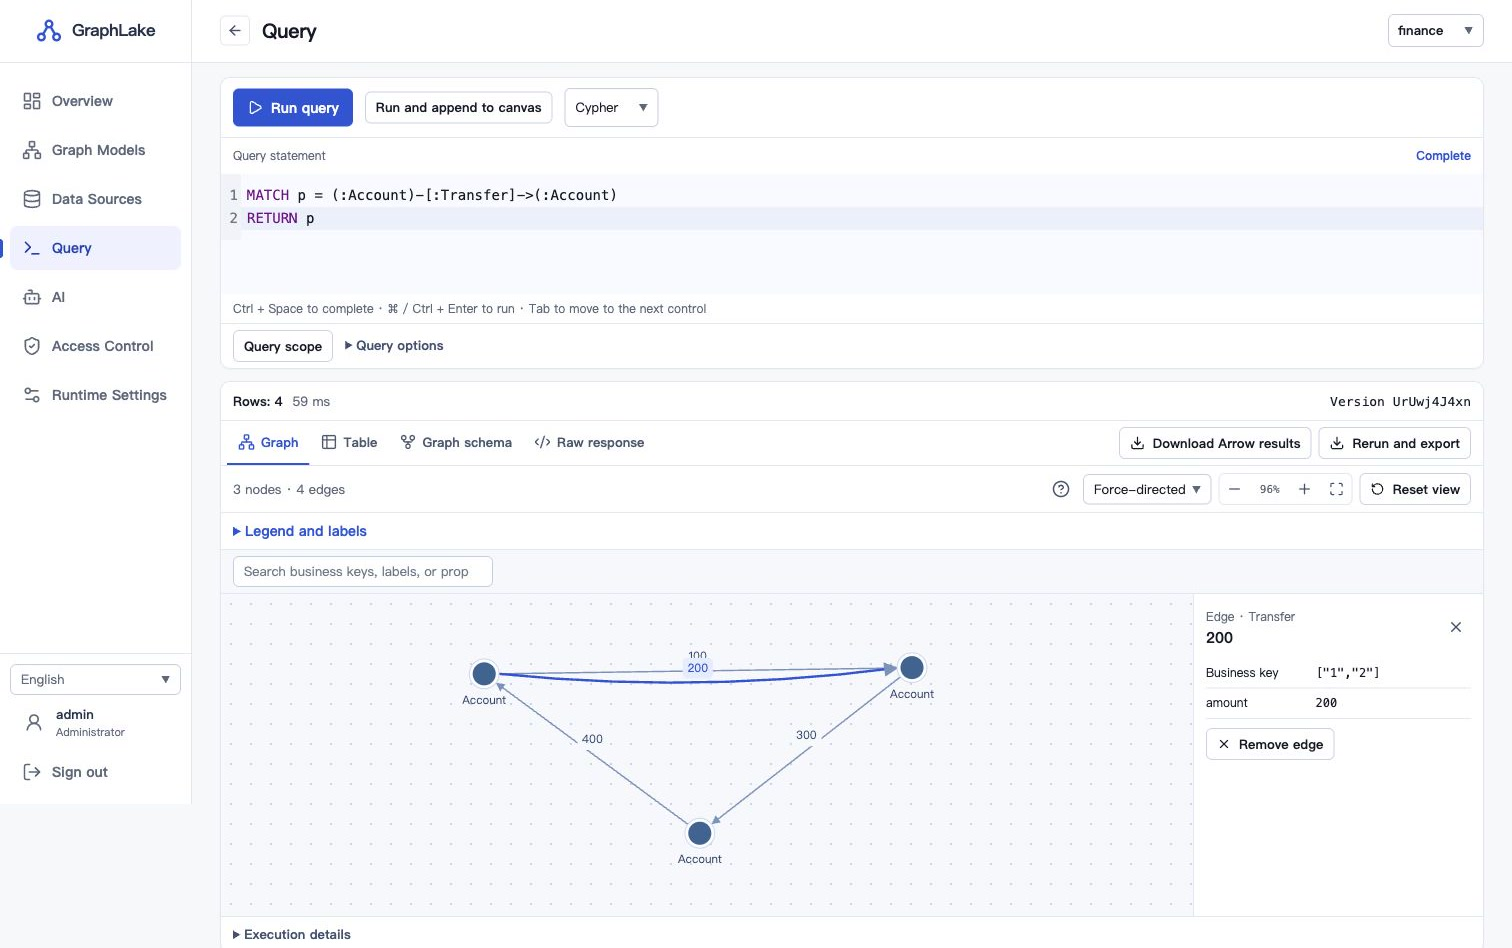
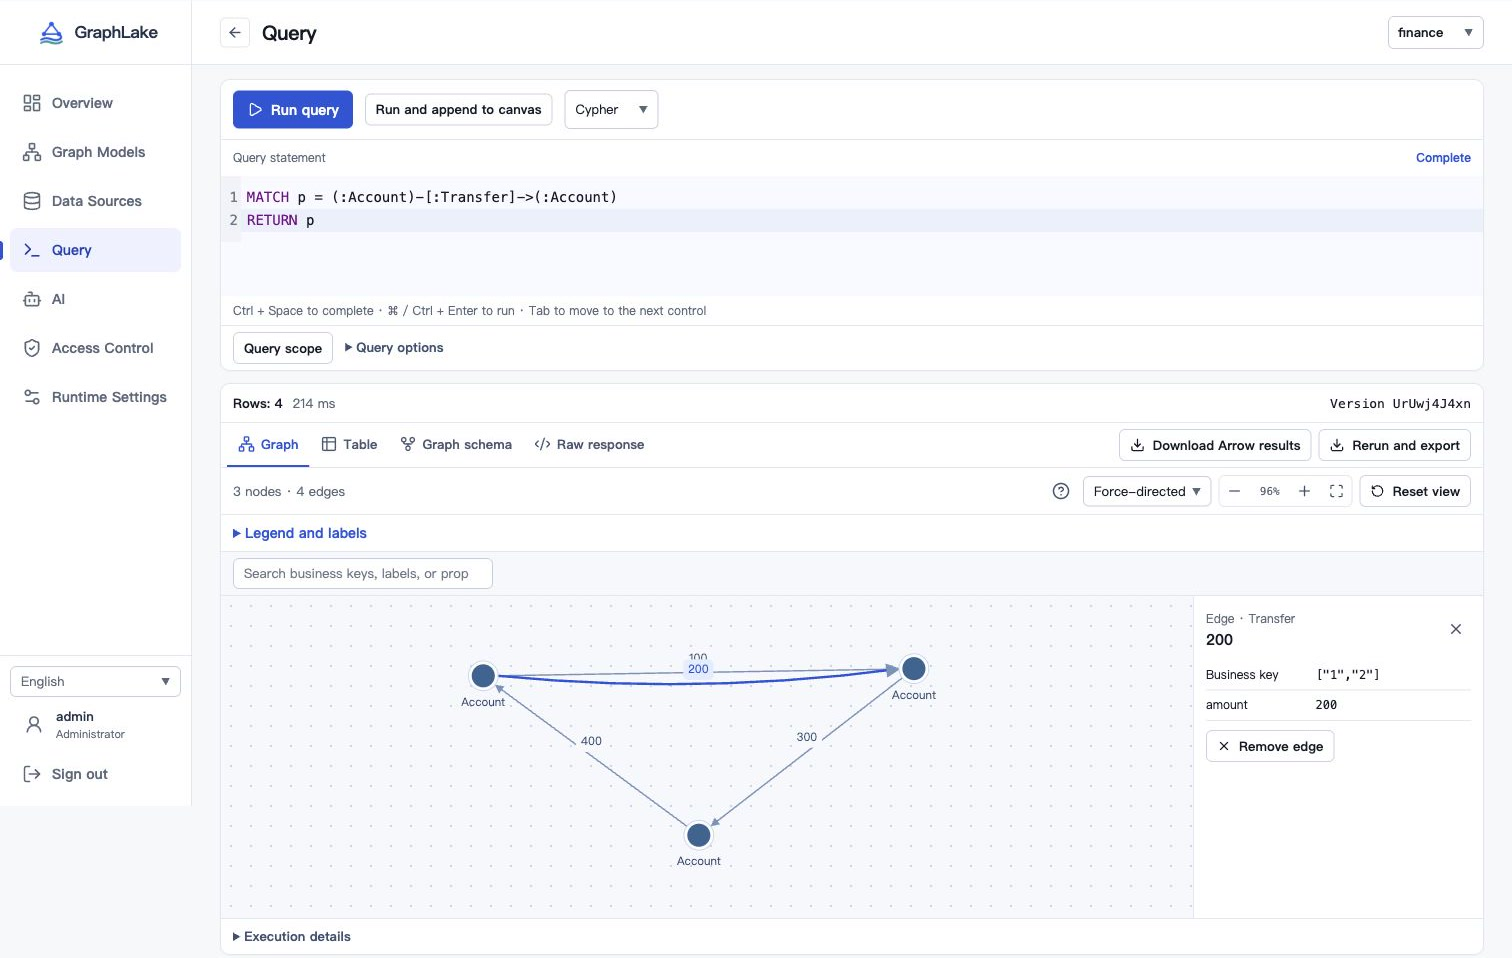
Unify GraphLake branding and prepare v1.1.2

diff --git a/web/src/styles.css b/web/src/styles.css
@@ -83,6 +83,7 @@ small, .small { font-size: 12px; }
 }
 .skip-link { position: fixed; inset: 10px auto auto 10px; z-index: 20; padding: 10px 16px; border-radius: 6px; background: #fff; color: var(--blue); transform: translateY(-200%); }
 .skip-link:focus { transform: none; }
+.brand-logo { display: block; flex: none; }
 .brand-mark { color: var(--blue); transform: rotate(90deg); flex: none; }
 .button {
   display: inline-flex; align-items: center; justify-content: center; gap: 8px; min-height: 38px; padding: 7px 13px;
@@ -196,7 +197,7 @@ thead th { font-weight: 700; white-space: nowrap; }
 .empty .button { margin-left: 12px; }
 .auth-page { min-height: 100dvh; display: grid; place-items: center; padding: var(--gutter); background: radial-gradient(ellipse at 50% 24%, #e8efff, #f5f7fb 64%); }
 .auth-card { display: grid; gap: 18px; width: min(100%, 408px); padding: clamp(20px, 6vw, 32px); background: var(--surface); border: 1px solid var(--line); border-radius: 14px; box-shadow: 0 12px 36px #19388315; }
-.auth-brand { display: flex; align-items: center; gap: 11px; color: #193883; font-size: 19px; font-weight: 750; }
+.auth-brand { display: flex; align-items: center; gap: 5px; color: #193883; font-size: 19px; font-weight: 750; }
 .auth-card-heading { display: flex; flex-wrap: wrap; align-items: center; justify-content: space-between; gap: 8px; }
 .language-picker { min-inline-size: 0; }
 .language-picker select { padding-block: 5px; font-size: .8125rem; }

diff --git a/web/src/Auth.tsx b/web/src/Auth.tsx
@@ -3,7 +3,7 @@ import { useCallback, useEffect, useState, type FormEvent, type ReactNode } from
 import { api, authRequired, errorText } from './api';
 import { clearPendingQueries } from './Query';
 import { clearPendingMutations } from './Mutations';
-import { Mark, WorkspaceLocked } from './ui';
+import { BrandLogo, WorkspaceLocked } from './ui';
 import { LanguageSelect } from './LanguageSelect';
 
 export type Session = { authenticated: boolean; enabled: boolean; username: string | null; administrator: boolean; subject?: string | null; authorization?: string | null; proxy_sign_in?: boolean };
@@ -47,7 +47,7 @@ function Login({ expired, username, proxySignIn, signedIn }: { expired: boolean;
   return <main className="auth-page">
     <section className="auth-card" aria-labelledby="login-heading">
       <div className="auth-card-heading">
-        <div className="auth-brand"><span className="model-icon"><Mark size={22} /></span>GraphLake</div>
+        <div className="auth-brand"><BrandLogo size={40} />GraphLake</div>
         <LanguageSelect />
       </div>
       <h1 id="login-heading">{expired ? t('会话已过期') : t('登录管理后台')}</h1>

diff --git a/web/src/navigation.css b/web/src/navigation.css
@@ -12,11 +12,10 @@
 .app-rail :is(button, a) { color: inherit; }
 .app-rail :is(button, a):focus-visible { outline-offset: -3px; }
 .rail-brand {
-  display: flex; align-items: center; justify-content: center; gap: 10px; flex: none; width: 100%; height: var(--header-height);
+  display: flex; align-items: center; justify-content: center; gap: 5px; flex: none; width: 100%; height: var(--header-height);
   background: transparent; border: 0; border-bottom: 1px solid var(--line);
 }
 .rail-brand span { color: #24324b; font-size: 1.0625rem; font-weight: 700; letter-spacing: -.03em; }
-.rail-brand .brand-mark { color: var(--blue); }
 .rail-items { display: grid; gap: 5px; padding: 16px 10px; grid-template-columns: minmax(0, 1fr); }
 .rail-account { margin-block-start: auto; grid-template-columns: minmax(0, 1fr); border-block-start: 1px solid var(--line); padding-block: 10px; }
 .rail-identity { display: flex; align-items: center; gap: 12px; padding: 6px 14px; }

diff --git a/web/src/ConsoleNavigation.tsx b/web/src/ConsoleNavigation.tsx
@@ -1,7 +1,7 @@
 import { useRef, useSyncExternalStore, type ReactNode } from 'react';
 import { Menu } from 'lucide-react';
 import { t } from './locale.ts';
-import { Mark } from './ui';
+import { BrandLogo } from './ui';
 import './navigation.css';
 
 const compact = window.matchMedia('(max-width: 760px)');
@@ -28,7 +28,7 @@ export function ConsoleNavigation({ page, home, account, children }: {
 
   return <header className="app-rail" data-collapsed={collapsed || undefined}>
     <button className="rail-brand" aria-label={t('GraphLake 首页')} onClick={home}>
-      <Mark size={26} /><span>GraphLake</span>
+      <BrandLogo /><span>GraphLake</span>
     </button>
     <nav className="rail-nav" aria-label={t('主导航')}>
       {collapsed && <button className="rail-menu-trigger button compact" type="button"

diff --git a/web/src/ui.tsx b/web/src/ui.tsx
@@ -3,8 +3,13 @@ import { createContext, useContext, useId, useLayoutEffect, useRef, useState, ty
 import { AlertTriangle, CheckCircle2, CircleMinus, Share2, X } from 'lucide-react';
 import type { Status } from './api';
 import { modelIdPattern } from './model';
+import graphlakeLogo from './assets/graphlake-logo.png';
 
 export const WorkspaceLocked = createContext(false);
+
+export function BrandLogo({ size = 36 }: { size?: number }) {
+  return <img className="brand-logo" src={graphlakeLogo} alt="" width={size} height={size} />;
+}
 
 export function Mark({ size = 25 }: { size?: number }) {
   return <Share2 className="brand-mark" size={size} strokeWidth={2.25} aria-hidden="true" />;

diff --git a/web/index.html b/web/index.html
@@ -3,6 +3,7 @@
   <head>
     <meta charset="UTF-8" />
     <meta name="viewport" content="width=device-width, initial-scale=1.0" />
+    <link rel="icon" type="image/png" sizes="512x512" href="/src/assets/graphlake-logo.png" />
     <title>GraphLake · Graph Models</title>
   </head>
   <body>

diff --git a/deploy/README.md b/deploy/README.md
@@ -6,14 +6,14 @@
 
 ## 构建与安装
 
-Linux 安装包以 Debian 12（glibc 2.36）为兼容基线，提供 ARM64 和 x86_64 两种架构。构建时在 Debian 12 安装 Rust、C/C++ 工具链、LLD 和 Node.js 24，在仓库根目录运行 `RUSTFLAGS="-C link-arg=-fuse-ld=lld" sh deploy/package.sh v1.1.1 dist`。输出文件名包含发行标签、源归档 SHA-256 的前 12 位和架构。可设置 `GRAPHLAKE_BUILD_TARGET` 指定 `aarch64-unknown-linux-gnu` 或 `x86_64-unknown-linux-gnu`，交叉构建使用对应 Rust 目标和 Debian 12 的目标链接器及系统库。可用 `GRAPHLAKE_WEB_DIST` 复用同一份前端产物。打包会拒绝要求高于 glibc 2.36 的二进制。
+Linux 安装包以 Debian 12（glibc 2.36）为兼容基线，提供 ARM64 和 x86_64 两种架构。构建时在 Debian 12 安装 Rust、C/C++ 工具链、LLD 和 Node.js 24，在仓库根目录运行 `RUSTFLAGS="-C link-arg=-fuse-ld=lld" sh deploy/package.sh v1.1.2 dist`。输出文件名包含发行标签、源归档 SHA-256 的前 12 位和架构。可设置 `GRAPHLAKE_BUILD_TARGET` 指定 `aarch64-unknown-linux-gnu` 或 `x86_64-unknown-linux-gnu`，交叉构建使用对应 Rust 目标和 Debian 12 的目标链接器及系统库。可用 `GRAPHLAKE_WEB_DIST` 复用同一份前端产物。打包会拒绝要求高于 glibc 2.36 的二进制。
 
 包内含两个 Rust 可执行文件、构建后的网页、systemd 单元和 `BUILD-INFO`。构建信息记录基础提交、完整工作树源归档的摘要、目标、打包环境的工具链以及产物哈希。两个二进制的 `--version` 与 HTTP `/healthz` 的 `build` 字段带同一个构建标识。带未提交改动的构建也会附上对应源码归档。复用 `GRAPHLAKE_BIN_DIR` 时，打包会校验二进制的目标架构和构建标识，并在 `binary_origin` 标记为 `prebuilt`。
 
 在目标机执行以下命令。已有 `graphlake` 系统用户时跳过 `useradd`。`dist` 中的包应先通过受信任渠道传输，校验文件用于检查传输完整性。
 
 ```sh
-release=v1.1.1-SOURCE_SHA12
+release=v1.1.2-SOURCE_SHA12
 artifact=graphlake-$release-linux-$(uname -m)
 sha256sum -c "$artifact.tar.gz.sha256"
 sudo useradd --system --user-group --home-dir /var/lib/graphlake --shell /usr/sbin/nologin graphlake

diff --git a/docs/deployment.md b/docs/deployment.md
@@ -1,13 +1,13 @@
 # Deploy GraphLake
 
-The v1.1.1 release provides Linux packages for `aarch64` (ARM64) and `x86_64` (AMD64). Debian 12 with systemd is the installation baseline. For each host, keep the architecture-specific archive, its SHA-256 file, and the `BUILD-INFO` stored inside the archive.
+The v1.1.2 release provides Linux packages for `aarch64` (ARM64) and `x86_64` (AMD64). Debian 12 with systemd is the installation baseline. For each host, keep the architecture-specific archive, its SHA-256 file, and the `BUILD-INFO` stored inside the archive.
 
 ## Standalone service
 
-Download both files for the host architecture from the [v1.1.1 release](https://github.com/SamuelSupe/graphlake/releases/tag/v1.1.1). Run the commands below in the download directory. Set `artifact` to the actual archive filename without `.tar.gz`.
+Download both files for the host architecture from the [v1.1.2 release](https://github.com/SamuelSupe/graphlake/releases/tag/v1.1.2). Run the commands below in the download directory. Set `artifact` to the actual archive filename without `.tar.gz`.
 
 ```sh
-artifact=graphlake-v1.1.1-SOURCE_SHA12-linux-$(uname -m)
+artifact=graphlake-v1.1.2-SOURCE_SHA12-linux-$(uname -m)
 sha256sum -c "$artifact.tar.gz.sha256"
 release_dir="/opt/graphlake/releases/${artifact#graphlake-}"
 
@@ -79,7 +79,7 @@ docker compose -f tests/production-compose.yml down -v
 On Debian 12, install Rust 1.95 or later, a native C/C++ toolchain, binutils, LLD, Git, and Node.js 24. From a clean checkout, run:
 
 ```sh
-RUSTFLAGS="-C link-arg=-fuse-ld=lld" sh deploy/package.sh v1.1.1 dist
+RUSTFLAGS="-C link-arg=-fuse-ld=lld" sh deploy/package.sh v1.1.2 dist
 ```
 
 Run this on each target architecture or provide the corresponding cross linker and Rust target, then set `GRAPHLAKE_BUILD_TARGET` to `aarch64-unknown-linux-gnu` or `x86_64-unknown-linux-gnu`. The script checks the architecture, embedded source version, and glibc baseline and writes an accompanying source archive and checksums.

diff --git a/docs/quickstart.md b/docs/quickstart.md
@@ -40,6 +40,8 @@ cargo run --locked --features admin --bin graphlake-admin -- \
 
 Choose a password when prompted. Open [http://127.0.0.1:7337](http://127.0.0.1:7337/) and sign in as `admin`. The valid model is adopted on startup.
 
+Select the GraphLake logo in the console navigation to return to the graph model list.
+
 The console opens in English by default. Choose **English** or **简体中文** on the sign-in page or in the main navigation. On small screens, tap the navigation button beside GraphLake to find the language selector and workspace links. GraphLake reloads the current page and remembers the language in this browser. If your current workspace has unsaved changes, the browser prompts you before leaving.
 
 1. Open **Graph Models** (图模型) and select `graph` to inspect the mapping.

diff --git a/CHANGELOG.md b/CHANGELOG.md
@@ -1,5 +1,10 @@
 # Changelog
 
+## v1.1.2
+
+- Use the same GraphLake logo on the sign-in page, console navigation, and browser tab.
+- Refresh the English Cypher workbench and local-table sync screenshots in the README.
+
 ## v1.1.1
 
 - Keep both branches of a paged Gremlin traversal on the same input. Allow Gremlin queries to use published CSR snapshots and combine equivalent traversers in eligible count queries without losing multiplicity.

diff --git a/README.md b/README.md
@@ -1,5 +1,5 @@
 <p align="center">
-  <img src="docs/images/graphlake-logo.png" width="144" height="144" alt="">
+  <img src="web/src/assets/graphlake-logo.png" width="144" height="144" alt="">
 </p>
 
 <h1 align="center">GraphLake</h1>
